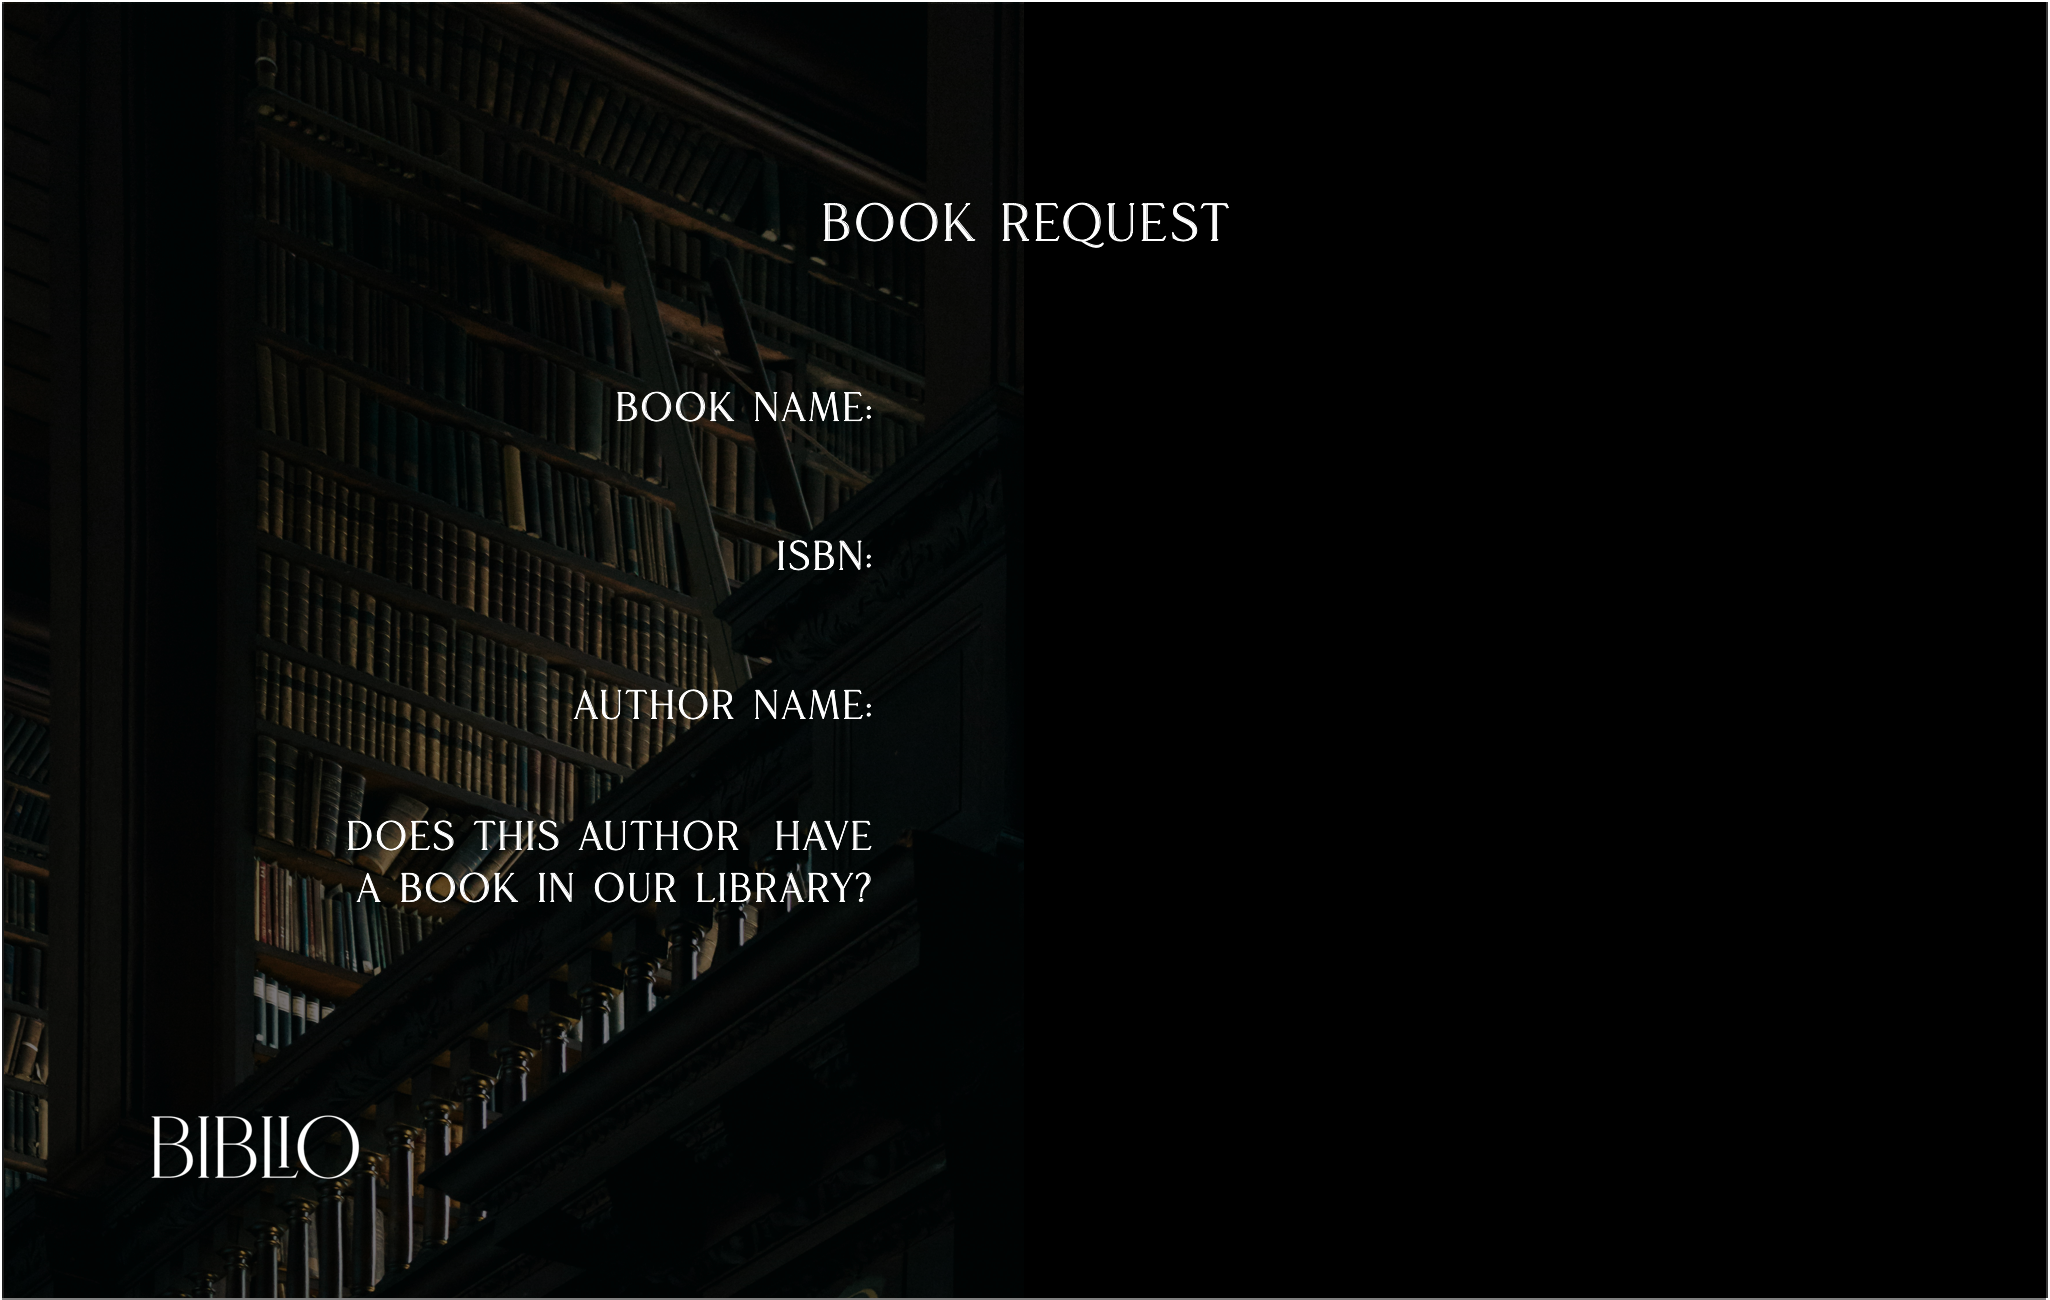
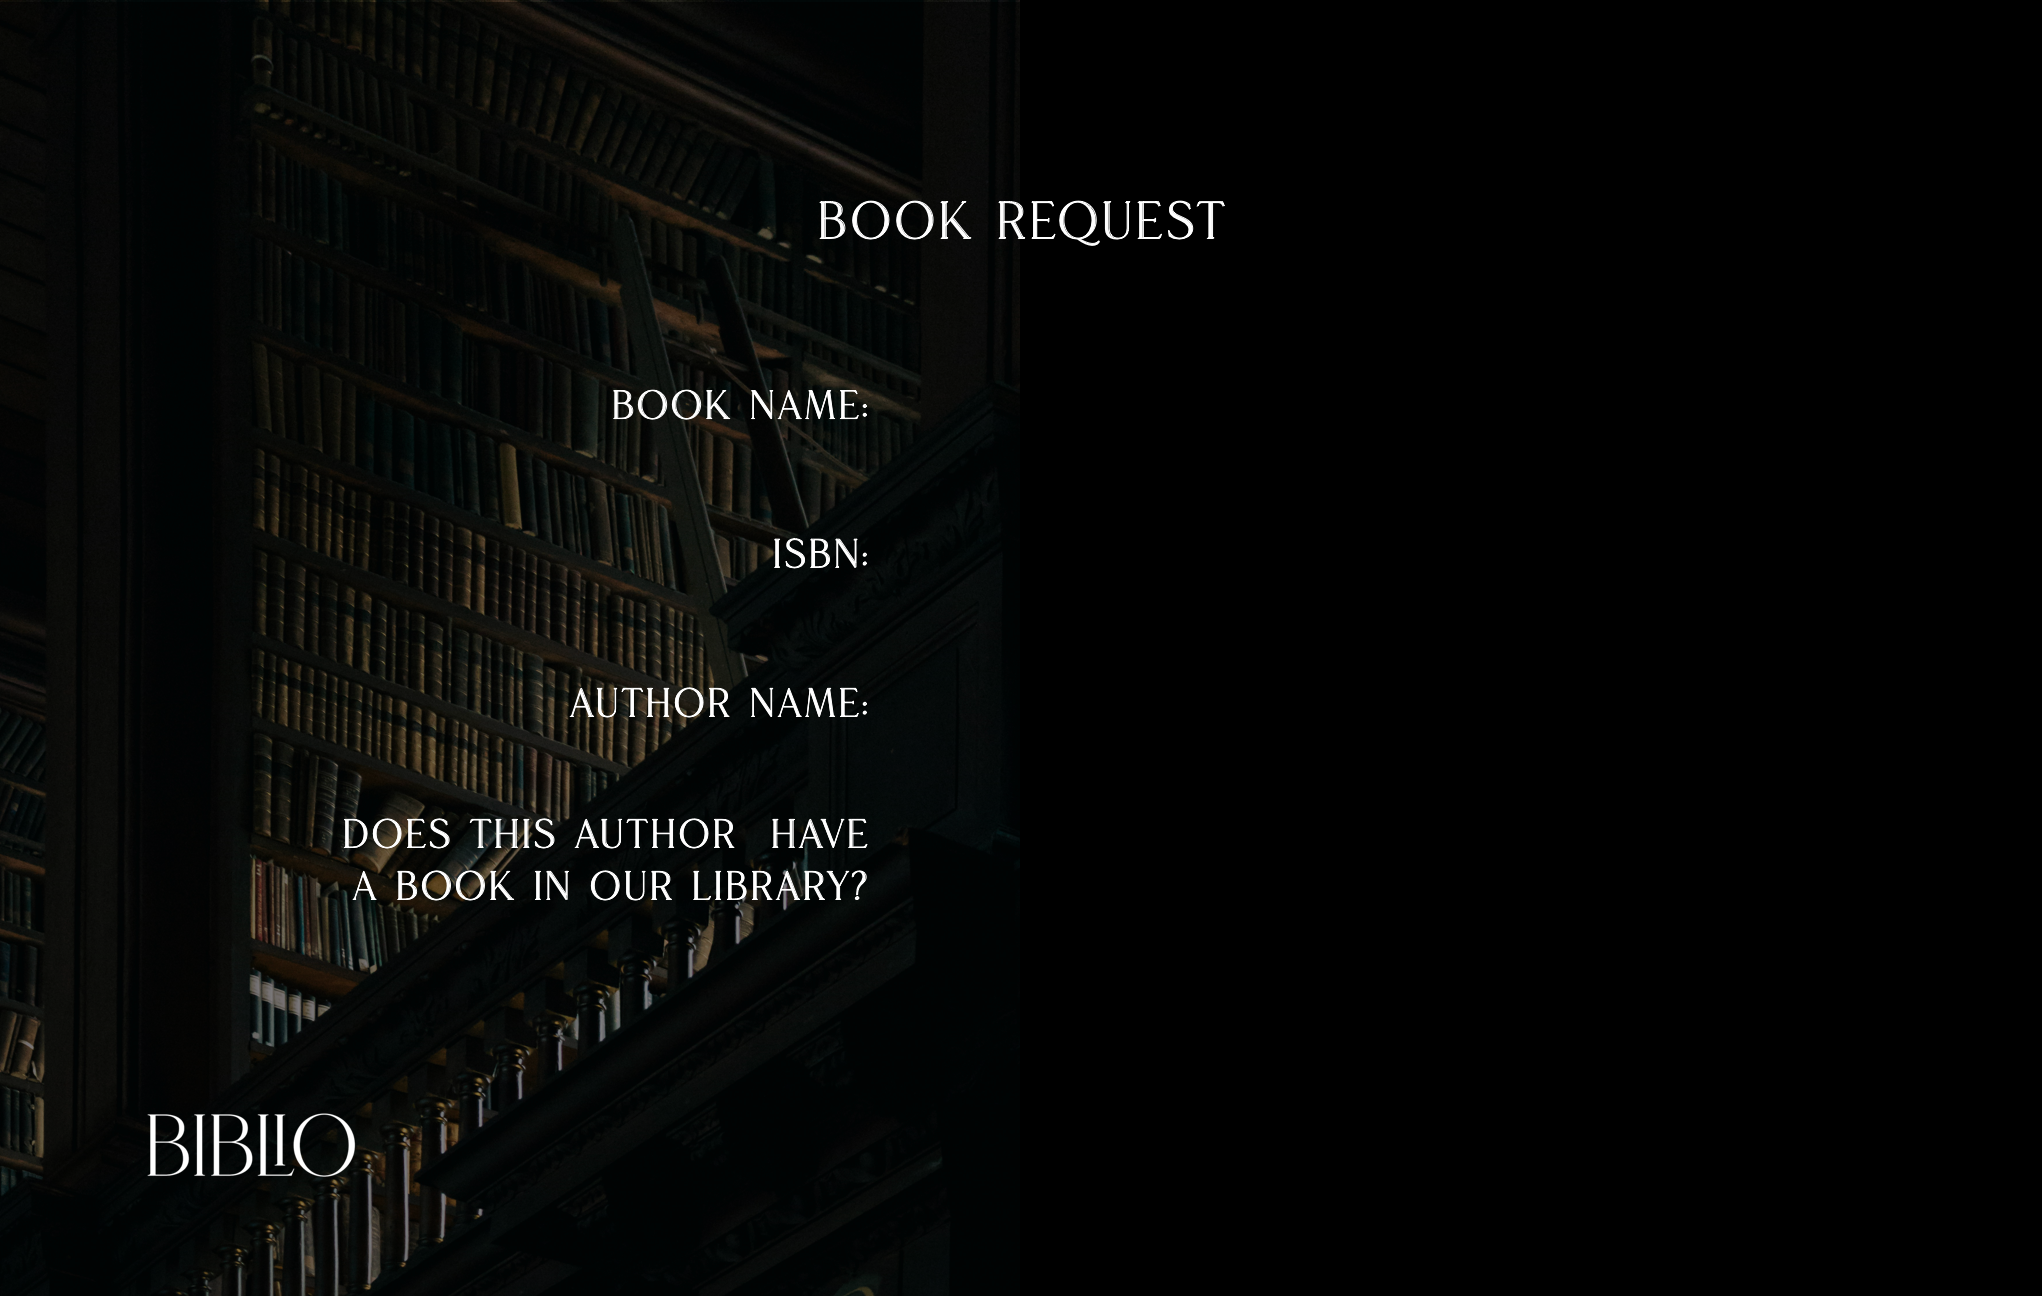
Add finished Book Request Page

diff --git a/frontend/css/request.css b/frontend/css/request.css
@@ -1,0 +1,127 @@
+* {
+
+    margin: 0px;
+}
+
+body {
+
+    position: relative
+}
+
+.background {
+
+    width: 100%;
+    height: 100%;
+
+    z-index: -99999;
+}
+
+#backButton {
+
+    position: absolute;
+
+    font-family: 'Roseritta', sans-serif;
+    font-size: 120%;
+    color: white;
+    text-decoration: underline;
+
+    top: 17.2vh;
+    left: 5vw;
+
+}
+
+#bookName {
+
+    position:absolute;
+
+    background-color: black;
+    border: 1px solid white;
+    color: white;
+
+    width: 660px;
+    height: 40px;
+    border-radius: 20px;
+
+    left: 45vw;
+    top: 32.5vh;
+
+    text-align: center;
+
+}
+
+#ISBN {
+
+    position:absolute;
+
+    background-color: black;
+    border: 1px solid white;
+    color: white;
+
+    width: 660px;
+    height: 40px;
+    border-radius: 20px;
+
+    left: 45vw;
+    top: 45.5vh;
+
+    text-align: center;
+
+}
+
+#authorName {
+
+    position:absolute;
+
+    background-color: black;
+    border: 1px solid white;
+    color: white;
+
+    width: 660px;
+    height: 40px;
+    border-radius: 20px;
+
+    left: 45vw;
+    top: 58.5vh;
+
+    text-align: center;
+
+}
+
+#authorExists {
+
+    position:absolute;
+
+    background-color: black;
+    border: 1px solid white;
+    color: white;
+
+    width: 660px;
+    height: 40px;
+    border-radius: 20px;
+
+    left: 45vw;
+    top: 72vh;
+
+    text-align: center;
+
+}
+
+#submitRequestButton {
+
+    position: absolute;
+
+    font-family: 'Roseritta', sans-serif;
+    color: white;
+    font-size: 150%;
+
+    background-color: black;
+    border: solid 1px white;
+    border-radius: 25px;
+
+    padding-left: 30px;
+    padding-right: 30px;
+    padding-top: 10px;
+
+    right: 9.6vw;
+    bottom: 12vh;
+}

diff --git a/frontend/request.html b/frontend/request.html
@@ -1,0 +1,29 @@
+<!DOCTYPE html>
+<html lang="en">
+<head>
+    <meta charset="UTF-8">
+    <meta name="viewport" content="width=device-width, initial-scale=1.0">
+    <title>Sign Up</title>
+    <link rel="normalize" href="css/normalize.css">
+    <link rel="stylesheet" href="css/request.css">
+    <link href="https://fonts.cdnfonts.com/css/roseritta" rel="stylesheet">
+</head>
+<body>
+    <form action="userlogin.php" method="POST">
+
+        <img class="background" src="/BIBLIO/frontend/webimages/request.png" alt="Background of user login page">
+
+        <a href="/BIBLIO/frontend/landing.html">
+            <p id="backButton">BACK</p>
+        </a>
+        
+        <input type="text" id="bookName" placeholder="Full Book Name">
+        <input type="text" id="ISBN" placeholder="ISBN Number (Can be found online)">
+        <input type="text" id="authorName" placeholder="Full Name of the Author" required>
+        <input type="text" id="authorExists" placeholder="Type &quot;TRUE&quot; or &quot;FALSE&quot;" required>
+
+        <input type="submit" id="submitRequestButton" value="SUBMIT">
+        
+    </form>
+</body>
+</html>
